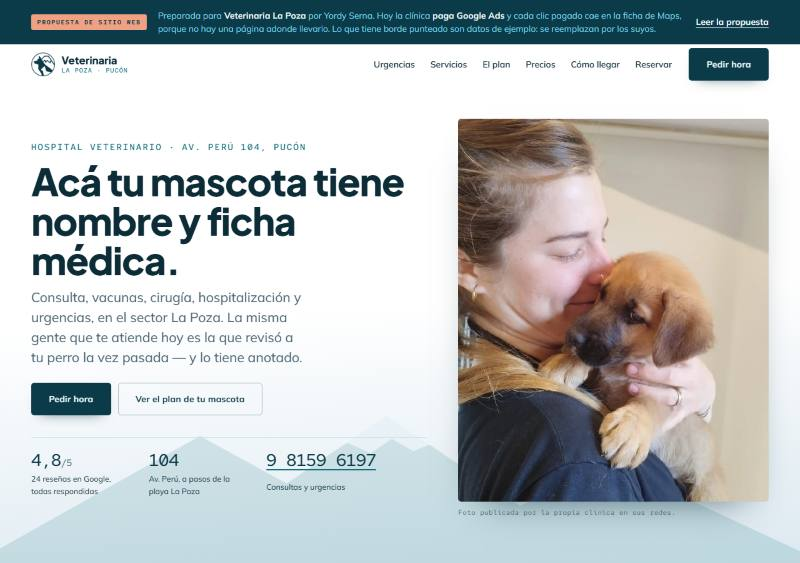
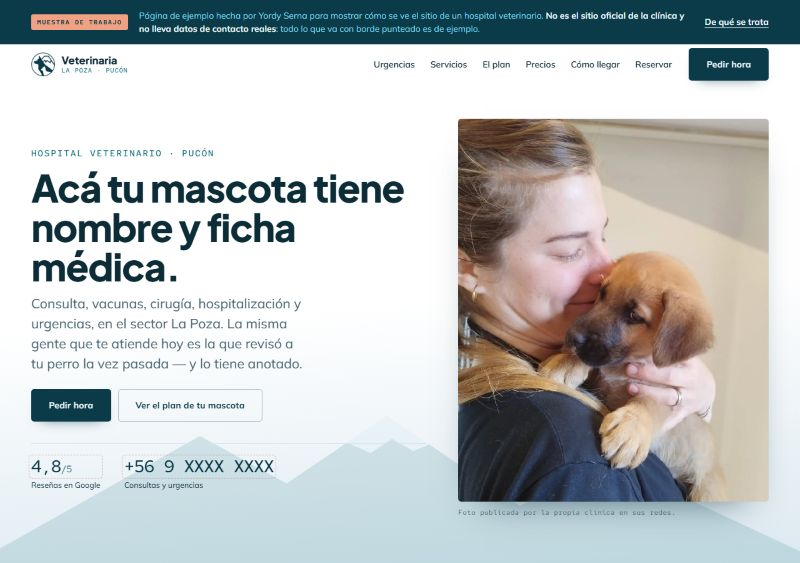
Reescribe las fichas de La Poza y Majoaal, y recaptura las dos
Los dos negocios no encargaron sus páginas, y las dos quedaron sin datos
de contacto. Las fichas del portafolio contaban cosas suyas —los Google
Ads y las reseñas de la veterinaria, los seguidores del complejo— que ya
no corresponde publicar. Ahora dicen lo que son: propuestas que quedaron
como muestra.

Capturas nuevas: las anteriores mostraban las versiones con teléfono y
dirección.

Changed region(s): [[0.0312, 0.2416, 0.5, 0.7549], [0.0625, 0.0, 0.9688, 0.0604], [0.0312, 0.7851, 0.4688, 0.8757]]

diff --git a/index.html b/index.html
@@ -289,7 +289,7 @@
             <span class="sello sello--prop">Propuesta</span>
           </summary>
           <div class="fila-cuerpo">
-            <p>Aparece como «Patrocinado» al buscar «veterinaria Pucón»: está pagando Google Ads. Y la ficha no tiene sitio web, así que cada clic que paga cae en un mapa con un teléfono. Le falta dónde aterrizar lo que ya compró. Tiene además 24 reseñas con 4,8 y las responde todas, una por una: hay alguien cuidando esa reputación, y hoy vive entera dentro de Google, prestada. La paleta salió de su propio logo —un perro, un gato y el Villarrica dentro de un círculo turquesa—: ese cuadrado de color se recortó pixel a pixel para dejar las siluetas sueltas y repintarlas en la tinta de la página, blanco puro de superficie y petróleo de fondo, con un solo coral gastado entero en urgencias. La pieza que sostiene la página es «el plan de tu mascota»: una línea de vida de cachorro a senior con los controles, vacunas y desparasitaciones que tocan a cada edad, y en cada hito un botón que baja al formulario con ese control ya elegido. Educa al tutor, demuestra que la clínica piensa a diez años y ninguna veterinaria de la zona lo tiene. Las urgencias no se buscan: hay una barra fija abajo en el celular con llamar y WhatsApp, porque una mascota que no respira no espera a que alguien navegue un sitio. El contraste del texto sobre las fotos se midió dibujándolas en un canvas y calculando el velo píxel a píxel: encontró un titular en 2,33:1 que ninguna revisión a ojo iba a ver.</p>
+            <p>Una veterinaria de Pucón que no tenía sitio propio. La propuesta se armó completa y la clínica decidió no tener presencia en internet, así que la página se quedó publicada sólo como muestra: sin su teléfono, sin su dirección y sin un solo enlace que llegue a ellos. La paleta salió de su propio logo —un perro, un gato y el Villarrica dentro de un círculo turquesa—: ese cuadrado de color se recortó píxel a píxel para dejar las siluetas sueltas y repintarlas en la tinta de la página, blanco puro de superficie y petróleo de fondo, con un solo coral gastado entero en urgencias. La pieza que sostiene la página es «el plan de tu mascota»: una línea de vida de cachorro a senior con los controles, vacunas y desparasitaciones que tocan a cada edad, y en cada hito un botón que baja al formulario con ese control ya elegido. Educa al tutor y demuestra que la clínica piensa a diez años, no a la consulta de hoy. Las urgencias no se buscan: hay una barra fija abajo en el celular, porque una mascota que no respira no espera a que alguien navegue un sitio. El contraste del texto sobre las fotos se midió dibujándolas en un canvas y calculando el velo píxel a píxel: encontró un titular en 2,33:1 que ninguna revisión a ojo iba a ver.</p>
             <ul class="chips"><li>Línea de vida con los controles por edad</li><li>Urgencia fija en el celular</li><li>Su logo recortado y repintado</li></ul>
             <p class="entry-links"><a href="https://yordyserna.github.io/veterinaria-la-poza-pucon/" target="_blank" rel="noopener">Ver sitio &#8599;</a><a class="mut" href="https://github.com/YordySerna/veterinaria-la-poza-pucon" target="_blank" rel="noopener">C&oacute;digo</a></p>
           </div>
@@ -359,7 +359,7 @@
             <span class="sello sello--prop">Propuesta</span>
           </summary>
           <div class="fila-cuerpo">
-            <p>Cuatro alojamientos sobre el bosque nativo con vista al lago Calafquén. Tienen veintiún mil seguidores en Instagram mandando gente a un subdominio ajeno hecho con plantilla, que reusa las mismas fotos de Booking: no hay dominio propio ni manera de aparecer en Google por su nombre. Esta propuesta se armó para presentársela. La regla acá fue no mentir: capacidad, tarifas, horarios y distancias salen de publicaciones del propio complejo, y todo lo que no está confirmado queda marcado como EJEMPLO a la vista, con borde punteado, para reemplazarlo con sus datos. El fondo son cuatro capas de CSS y nada más — manchas de niebla que derivan, jirones que cruzan la pantalla, ceniza en suspensión y brasas dentro de las zonas oscuras, resueltas con degradados en un solo pseudoelemento en vez de sumar decenas de nodos.</p>
+            <p>Cuatro alojamientos sobre el bosque nativo con vista al lago Calafquén. La propuesta se armó para presentársela y quedó publicada como muestra, sin sus datos de contacto ni enlaces a sus redes. La regla acá fue no mentir: capacidad, tarifas, horarios y distancias salen de publicaciones del propio complejo, y todo lo que no está confirmado queda marcado como EJEMPLO a la vista, con borde punteado, para reemplazarlo con sus datos. El fondo son cuatro capas de CSS y nada más — manchas de niebla que derivan, jirones que cruzan la pantalla, ceniza en suspensión y brasas dentro de las zonas oscuras, resueltas con degradados en un solo pseudoelemento en vez de sumar decenas de nodos.</p>
             <ul class="chips"><li>Cero librerías</li><li>Fondo animado en cuatro capas</li><li>Cotizador → WhatsApp</li></ul>
             <p class="entry-links"><a href="https://yordyserna.github.io/majoaal-lican-ray/" target="_blank" rel="noopener">Ver sitio &#8599;</a><a class="mut" href="https://github.com/YordySerna/majoaal-lican-ray" target="_blank" rel="noopener">C&oacute;digo</a></p>
           </div>
